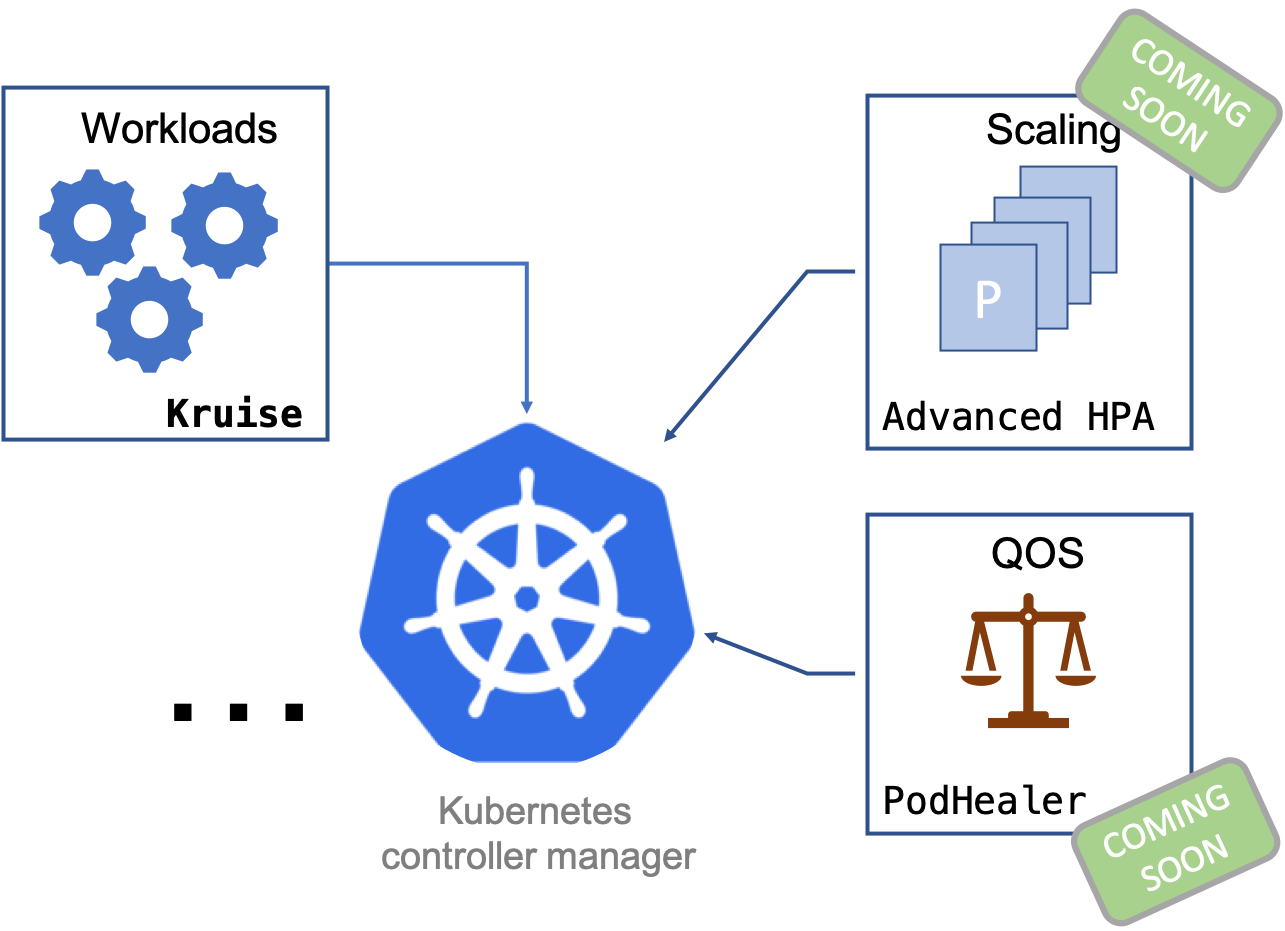
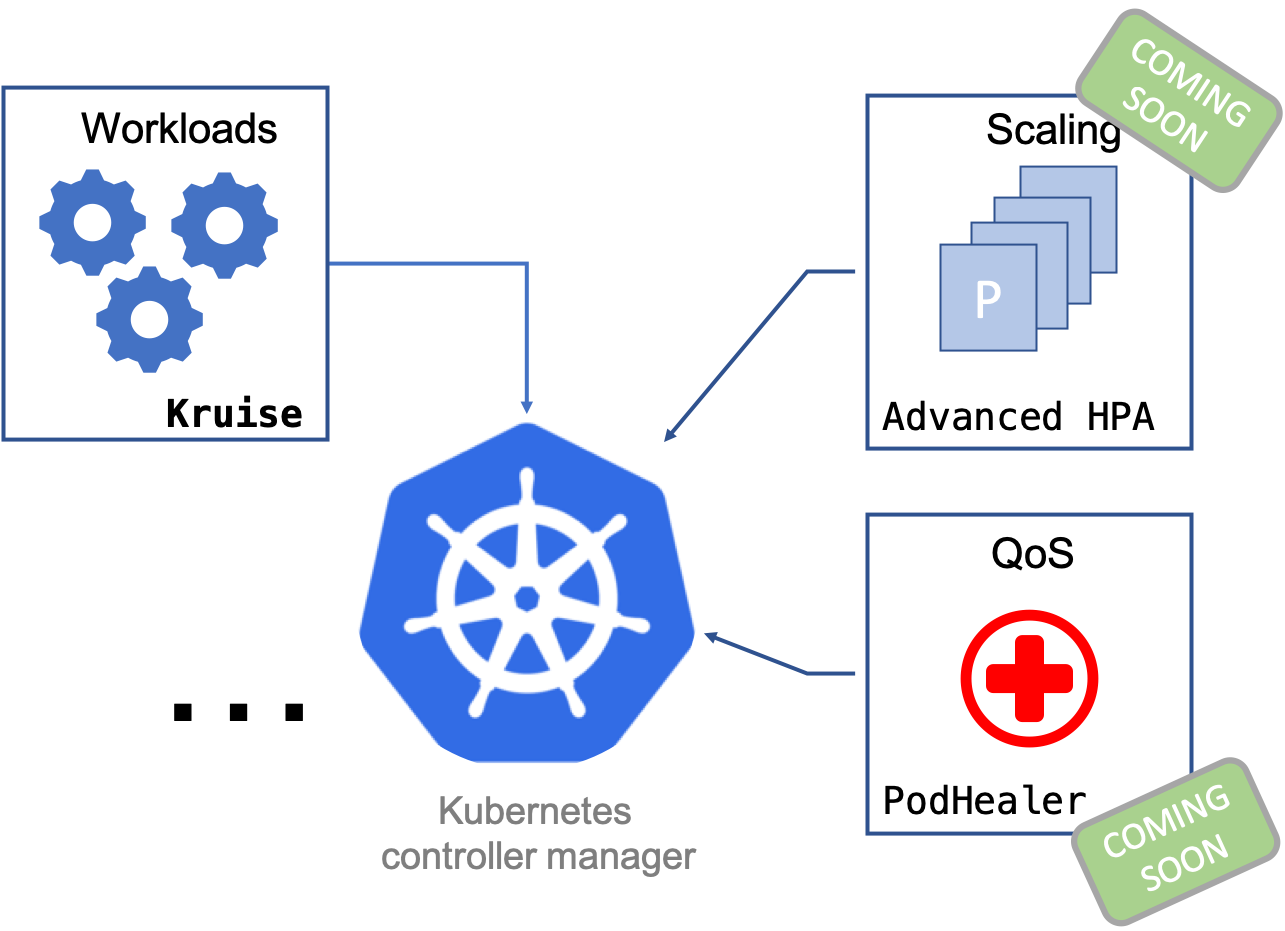
Revise homepage introduction.

Changed region(s): [[0.7471, 0.623, 0.8716, 0.8099], [0.7782, 0.5607, 0.8405, 0.623]]

diff --git a/site_config/home.js b/site_config/home.js
@@ -47,7 +47,12 @@ export default {
     },
     introduction: {
       title: 'What is OpenKruise',
-      desc: 'OpenKruise is a suite that provides multiple solutions to automate workload management in Kubernetes. Kruise, the core of OpenKruise suite, is a set of controllers which extend and complement Kubernetes core controllers on workload management.',
+      desc: 'OpenKruise is a suite that provides multiple solutions to automate cloud native applications in Kubernetes.' +
+	    'It is built primarily based on Kubernetes CRD extensions. There are three major categories that OpenKruise ' +
+	    'is going to focus on : workload management, autoscaling and QoS. As shown in the figure, we use code name Kruise to ' +
+	    'represent all the workload controllers that OpenKruise provides. As name suggests, we expect Kruise is going to be the ' +
+	    'core of OpenKruise. Kruise is currently released with three initial controllers. Please check the documentation ' +
+	    'for details. We are going to release the controllers for autoscaling and QoS soon, stay tuned!',
       img: '/img/kruise-overall.png',
     },
     
